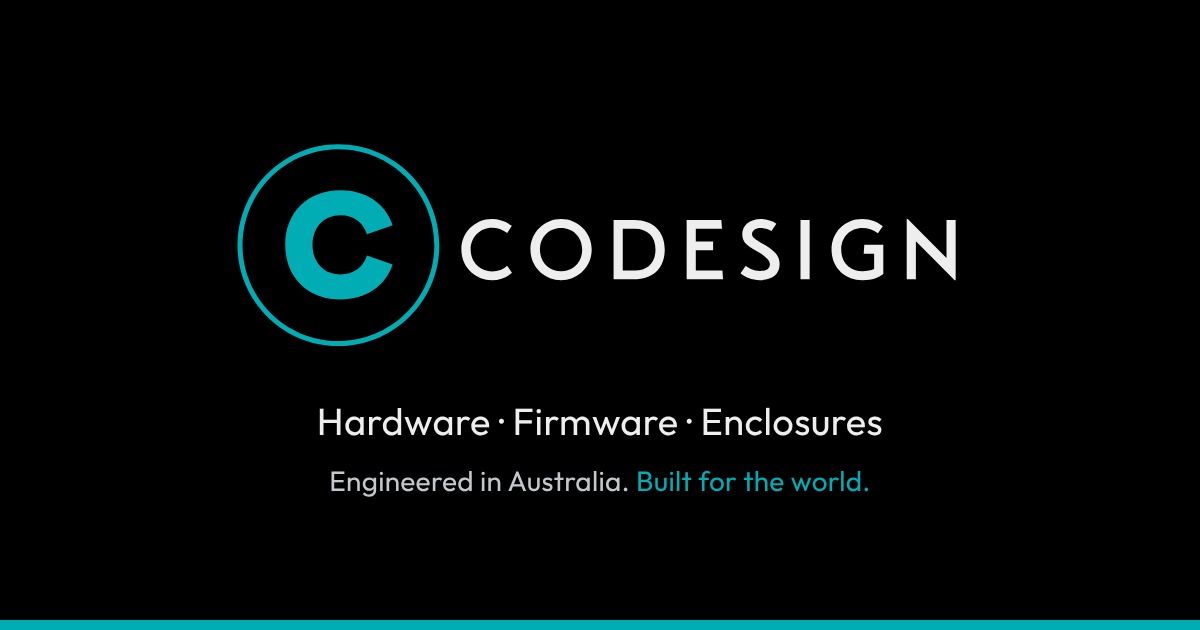
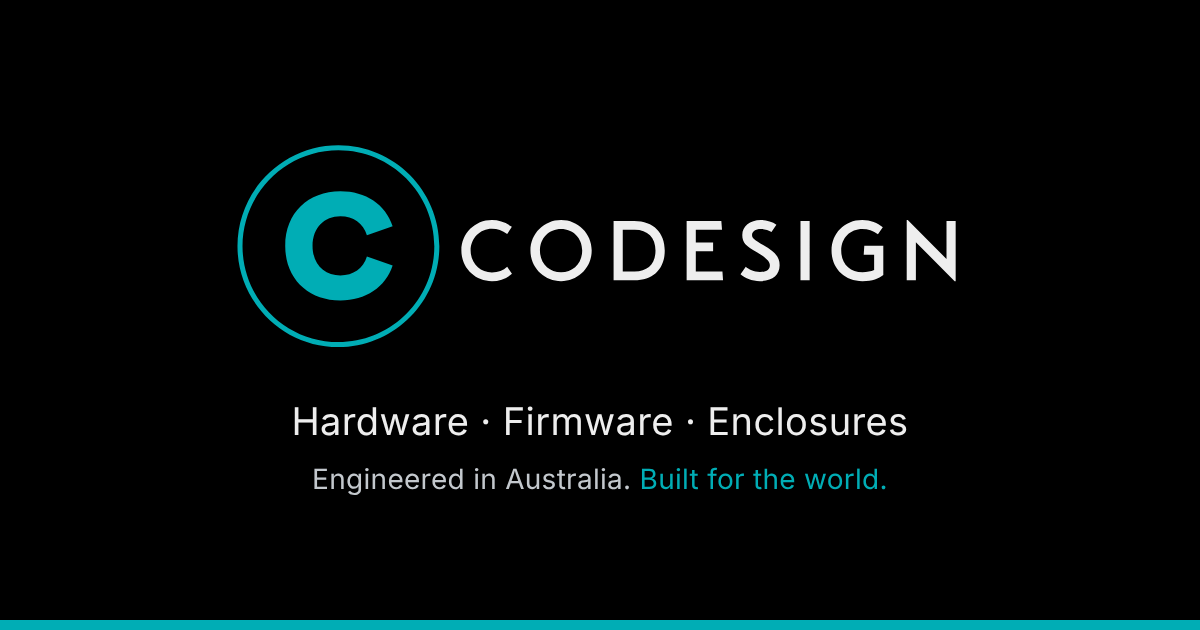
Use Helvetica for text and Inter for headings, as on the original site
Outfit read as small and heavy. Helvetica comes from the visitor's system
(Arial on Windows/Android); Inter is self-hosted (OFL).

Claude-Session: https://claude.ai/code/session_01UNx2QdxYvEiuRAkyuSgzaq

diff --git a/public/assets/css/site.css b/public/assets/css/site.css
@@ -1,10 +1,10 @@
 /* Codesign Technology — site styles.
    Layout, sizes and spacing follow the original Wix site (measured 24 Nov 2026 at 1280px).
-   Colours: brand guide v1.0. Font: Outfit (brand guide). Background: black (Mike, 24 Nov 2026). */
+   Colours: brand guide v1.0. Fonts as on the original site: Helvetica for text, Inter for headings (Mike, 24 Nov 2026). Background: black (Mike, 24 Nov 2026). */
 
 @font-face {
-  font-family: "Outfit";
-  src: url("/assets/fonts/outfit-latin.woff2") format("woff2");
+  font-family: "Inter";
+  src: url("/assets/fonts/inter-latin.woff2") format("woff2");
   font-weight: 100 900;
   font-style: normal;
   font-display: swap;
@@ -18,7 +18,9 @@
   --muted: #777777;
   --container: 920px;
   --gutter: 20px;
-  --font: "Outfit", "Century Gothic", system-ui, -apple-system, "Segoe UI", sans-serif;
+  /* Helvetica is a licensed font, so it isn't embedded: Macs and iPhones show Helvetica, Windows and Android show Arial (near-identical metrics). */
+  --font: "Helvetica Neue", Helvetica, Arial, sans-serif;
+  --font-head: "Inter", "Helvetica Neue", Helvetica, Arial, sans-serif;
 }
 
 *, *::before, *::after { box-sizing: border-box; }
@@ -41,6 +43,7 @@ main { flex: 1; }
 
 img { max-width: 100%; height: auto; display: block; }
 
+h1, h2, h3, h4, .about-tag, .menu, .menu-toggle { font-family: var(--font-head); }
 h1, h2, h3, h4 { font-weight: 400; margin: 0; }
 p { margin: 0; }
 

diff --git a/public/404.html b/public/404.html
@@ -11,7 +11,7 @@
   <link rel="icon" href="/favicon.svg" type="image/svg+xml">
   <link rel="apple-touch-icon" href="/apple-touch-icon.png">
   <link rel="manifest" href="/site.webmanifest">
-  <link rel="preload" href="/assets/fonts/outfit-latin.woff2" as="font" type="font/woff2" crossorigin>
+  <link rel="preload" href="/assets/fonts/inter-latin.woff2" as="font" type="font/woff2" crossorigin>
   <link rel="stylesheet" href="/assets/css/site.css">
   <script src="/assets/js/site.js" defer></script>
   <meta property="og:type" content="website">

diff --git a/public/about/index.html b/public/about/index.html
@@ -11,7 +11,7 @@
   <link rel="icon" href="/favicon.svg" type="image/svg+xml">
   <link rel="apple-touch-icon" href="/apple-touch-icon.png">
   <link rel="manifest" href="/site.webmanifest">
-  <link rel="preload" href="/assets/fonts/outfit-latin.woff2" as="font" type="font/woff2" crossorigin>
+  <link rel="preload" href="/assets/fonts/inter-latin.woff2" as="font" type="font/woff2" crossorigin>
   <link rel="stylesheet" href="/assets/css/site.css">
   <script src="/assets/js/site.js" defer></script>
   <meta property="og:type" content="website">

diff --git a/public/contact/index.html b/public/contact/index.html
@@ -11,7 +11,7 @@
   <link rel="icon" href="/favicon.svg" type="image/svg+xml">
   <link rel="apple-touch-icon" href="/apple-touch-icon.png">
   <link rel="manifest" href="/site.webmanifest">
-  <link rel="preload" href="/assets/fonts/outfit-latin.woff2" as="font" type="font/woff2" crossorigin>
+  <link rel="preload" href="/assets/fonts/inter-latin.woff2" as="font" type="font/woff2" crossorigin>
   <link rel="stylesheet" href="/assets/css/site.css">
   <script src="/assets/js/site.js" defer></script>
   <meta property="og:type" content="website">

diff --git a/public/index.html b/public/index.html
@@ -11,7 +11,7 @@
   <link rel="icon" href="/favicon.svg" type="image/svg+xml">
   <link rel="apple-touch-icon" href="/apple-touch-icon.png">
   <link rel="manifest" href="/site.webmanifest">
-  <link rel="preload" href="/assets/fonts/outfit-latin.woff2" as="font" type="font/woff2" crossorigin>
+  <link rel="preload" href="/assets/fonts/inter-latin.woff2" as="font" type="font/woff2" crossorigin>
   <link rel="stylesheet" href="/assets/css/site.css">
   <script src="/assets/js/site.js" defer></script>
   <meta property="og:type" content="website">

diff --git a/README.md b/README.md
@@ -11,7 +11,7 @@ The static website for **codesign.technology**. It is plain HTML and CSS with on
 | `public/404.html` | Not-found page (Cloudflare Pages serves it automatically) |
 | `public/assets/css/site.css` | All styles. The brand colours are CSS variables at the top. |
 | `public/assets/js/site.js` | Footer year and the contact form handler |
-| `public/assets/fonts/` | Outfit variable font, self-hosted (SIL OFL, see `OFL.txt`) |
+| `public/assets/fonts/` | Inter variable font for headings, self-hosted (SIL OFL, see `OFL-Inter.txt`). Body text uses the system Helvetica/Arial. |
 | `public/assets/img/` | Logos (copied from the brand kit) |
 | `public/favicon.*`, `apple-touch-icon.png`, `icon-*.png`, `site.webmanifest` | Icons, rendered from the brand kit `Favicon.svg` |
 | `public/og-image.png` | 1200×630 link-preview image |
